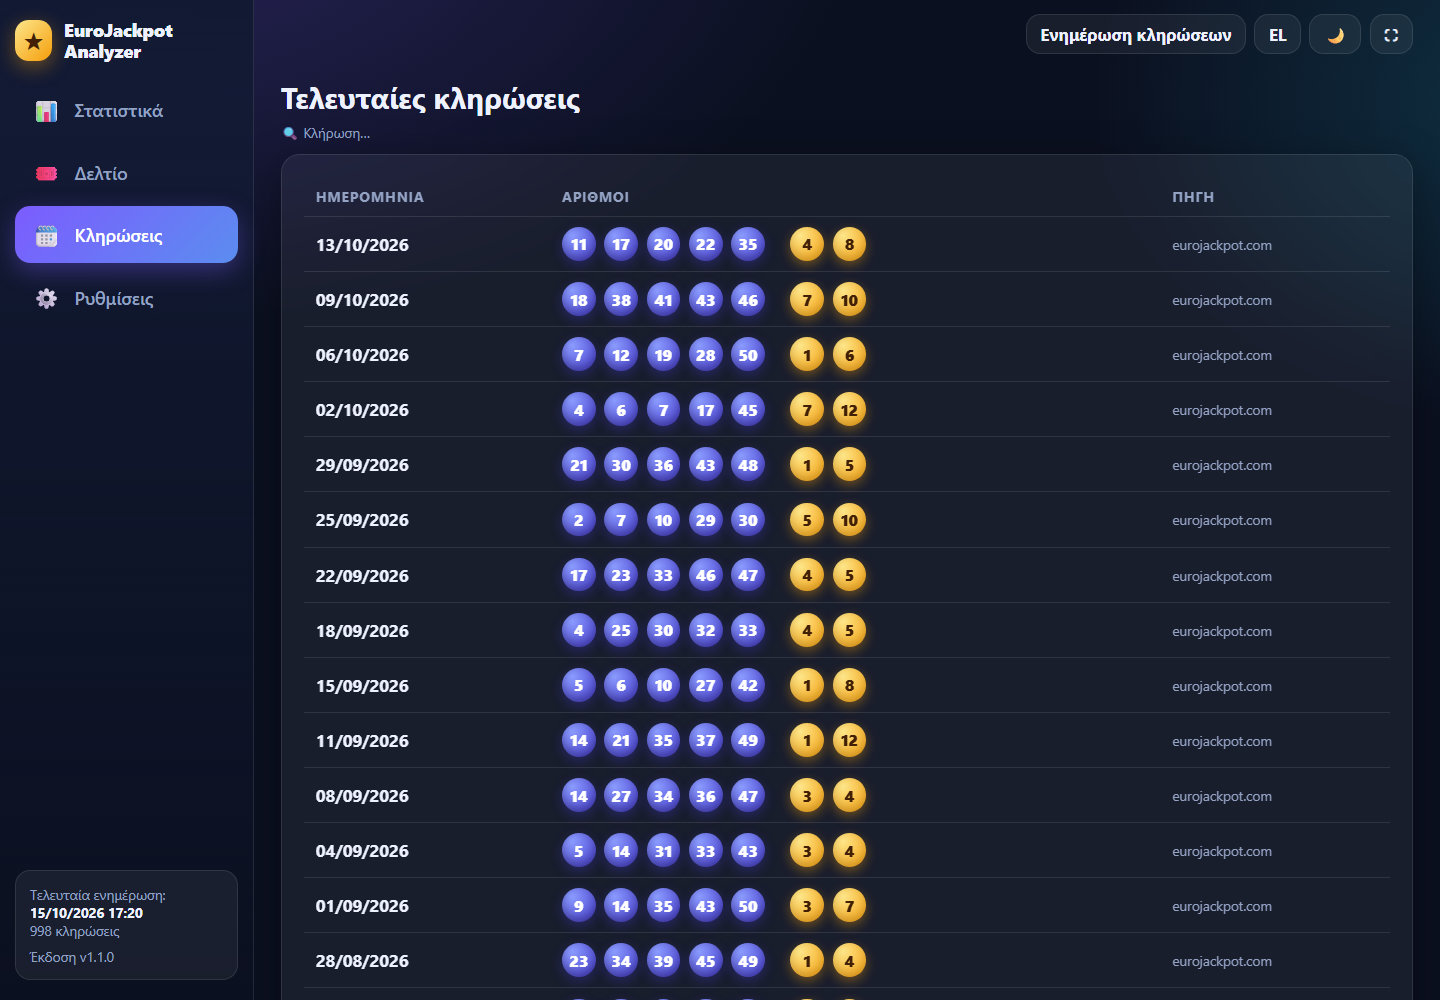
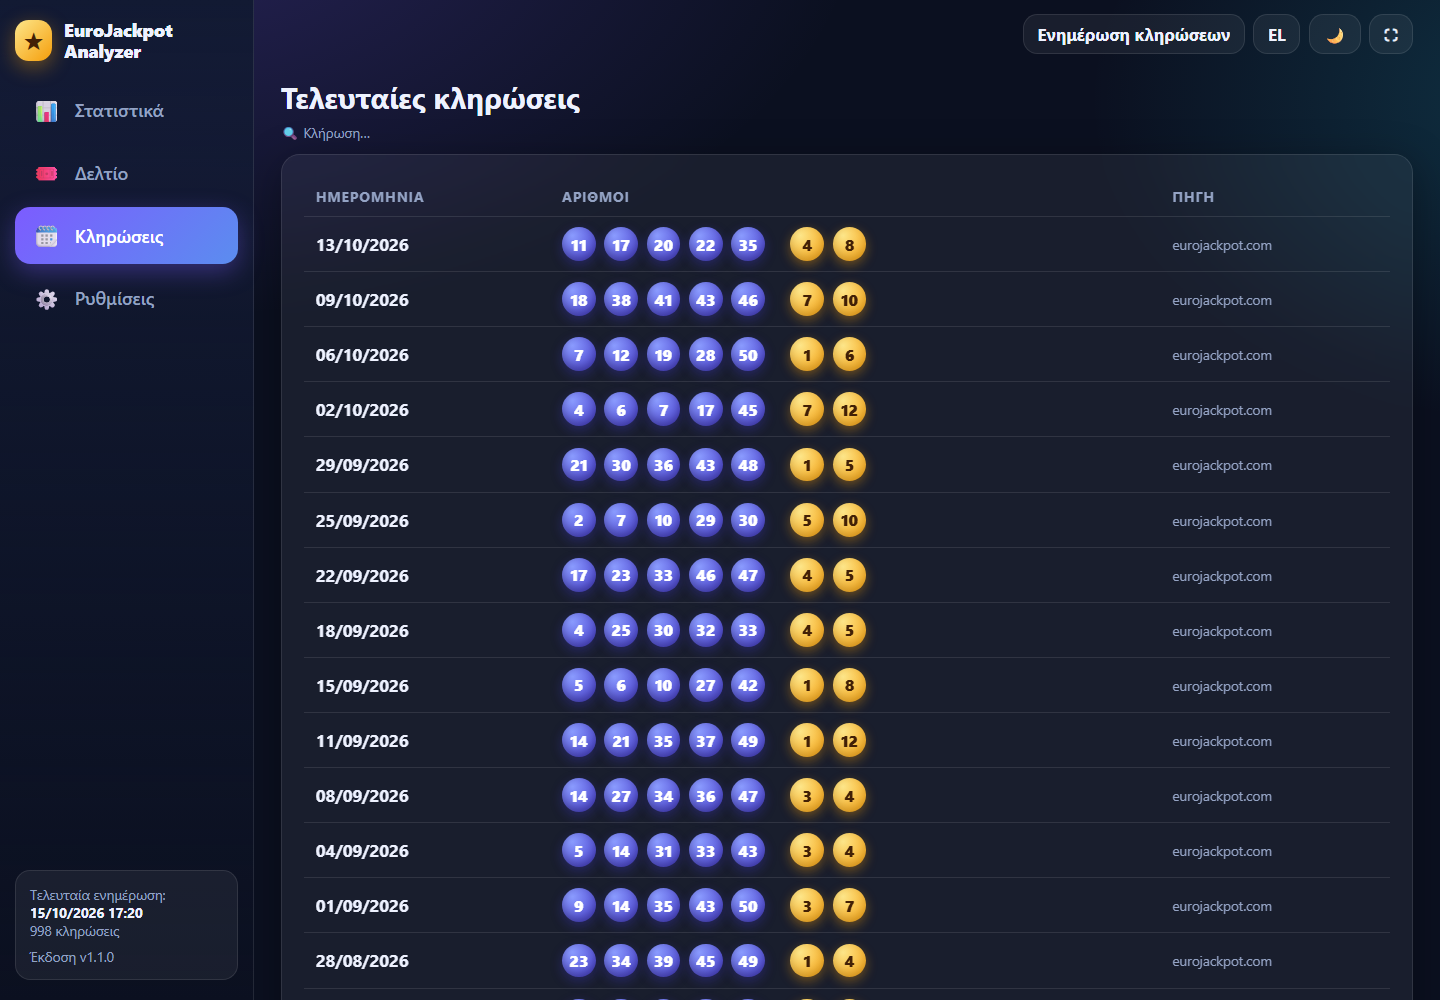
Fix helper launch for in-app update, fix README images (v1.1.1)

diff --git a/app/ui/app.js b/app/ui/app.js
@@ -466,6 +466,7 @@ async function boot() {
   const hp = new URLSearchParams(location.hash.slice(1));      // dev/docs helper: #view=ticket&lang=en&theme=light&draw=2026-10-13&gen=12
   if (hp.get("lang") && hp.get("lang") !== S.settings.lang) { await setSetting("lang", hp.get("lang")); await loadLocale(); await refreshInfo(); }
   if (hp.get("theme") && hp.get("theme") !== S.settings.theme) { await setSetting("theme", hp.get("theme")); applyTheme(); }
+  if (hp.get("static")) document.body.classList.add("no-anim");   // screenshots: no fade-in captured half-way
   if (hp.get("view")) S.view = hp.get("view");
   if (!S.info.count) { await runUpdate({ firstRun: true }); }
   else {

diff --git a/app/ui/styles.css b/app/ui/styles.css
@@ -21,6 +21,7 @@ body {
 }
 button { font: inherit; color: inherit; cursor: pointer; }
 .hidden { display: none !important; }
+.no-anim *, .no-anim *::before, .no-anim *::after { animation: none !important; transition: none !important; }
 .muted { color: var(--muted); } .small { font-size: .8rem; } .strong { font-weight: 700; } .big { font-size: 1.6rem; }
 
 #app { display: grid; grid-template-columns: 15rem 1fr; height: 100vh; }

diff --git a/app/appupdate.py b/app/appupdate.py
@@ -117,10 +117,13 @@ def safe_extract(zip_path: Path, dest: Path) -> Path:
 
 
 APPLY_PS1 = r"""param([int]$ProcId, [string]$Src, [string]$Dst, [string]$Exe)
+Start-Transcript -Path (Join-Path $PSScriptRoot 'apply.log') | Out-Null
 try { Wait-Process -Id $ProcId -Timeout 90 -ErrorAction SilentlyContinue } catch {}
 Start-Sleep -Seconds 1
 robocopy $Src $Dst /E /XD "$Dst\data" /R:10 /W:1 /NFL /NDL /NJH /NJS /NP | Out-Null
+"robocopy exit code: $LASTEXITCODE"
 Start-Process -FilePath $Exe
+Stop-Transcript | Out-Null
 """
 
 
@@ -154,9 +157,11 @@ def install(release: dict, progress=None) -> None:
     ps1 = tmp / "apply.ps1"
     ps1.write_text(APPLY_PS1, encoding="utf-8")
     exe = Path(sys.executable).resolve()
-    flags = getattr(subprocess, "DETACHED_PROCESS", 0) | getattr(subprocess, "CREATE_NO_WINDOW", 0)
-    subprocess.Popen(
-        ["powershell", "-NoProfile", "-ExecutionPolicy", "Bypass", "-WindowStyle", "Hidden", "-File", str(ps1),
-         "-ProcId", str(os.getpid()), "-Src", str(src), "-Dst", str(base_dir()), "-Exe", str(exe)],
-        creationflags=flags, close_fds=True,
-    )
+    cmd = ["powershell", "-NoProfile", "-ExecutionPolicy", "Bypass", "-WindowStyle", "Hidden", "-File", str(ps1),
+           "-ProcId", str(os.getpid()), "-Src", str(src), "-Dst", str(base_dir()), "-Exe", str(exe)]
+    base = getattr(subprocess, "CREATE_NO_WINDOW", 0) | getattr(subprocess, "CREATE_NEW_PROCESS_GROUP", 0)
+    breakaway = 0x01000000          # CREATE_BREAKAWAY_FROM_JOB: survive if our job object is closed with us
+    try:
+        subprocess.Popen(cmd, creationflags=base | breakaway, close_fds=True)
+    except OSError:                 # the job does not allow breakaway
+        subprocess.Popen(cmd, creationflags=base, close_fds=True)

diff --git a/app/version.py b/app/version.py
@@ -1,4 +1,4 @@
-__version__ = "1.1.0"
+__version__ = "1.1.1"
 APP_NAME = "EuroJackpot Analyzer"
 # GitHub "owner/name" used for update checks (GitHub Releases). Empty = update check disabled.
 GITHUB_REPO = "VeZReVouLiS/EuroJackpot-Analyzer"

diff --git a/README.md b/README.md
@@ -27,7 +27,11 @@ Portable πρόγραμμα για Windows που κατεβάζει όλο το
 > Οι Euro αριθμοί άλλαξαν εύρος στο παρελθόν (1–8, από 10/2014 1–10, από 3/2022 1–12). Τα στατιστικά μετρούν μόνο τις κληρώσεις στις οποίες ο αριθμός υπήρχε.
 
 ### 3. Κληρώσεις και λεπτομέρειες
-Στο μενού **Κληρώσεις** βλέπεις τις τελευταίες 100 κληρώσεις. **Κάνε κλικ σε μια κλήρωση** (ή στην τελευταία κλήρωση της αρχικής οθόνης) για να δεις τις επιτυχίες και τα κέρδη ανά κατηγορία:
+Στο μενού **Κληρώσεις** βλέπεις τις τελευταίες 100 κληρώσεις:
+
+![Τελευταίες κληρώσεις](docs/images/06-draws.png)
+
+**Κάνε κλικ σε μια κλήρωση** (ή στην τελευταία κλήρωση της αρχικής οθόνης) για να δεις τις επιτυχίες και τα κέρδη ανά κατηγορία:
 
 ![Λεπτομέρειες κλήρωσης](docs/images/02-draw-details.png)
 
@@ -49,8 +53,12 @@ Portable πρόγραμμα για Windows που κατεβάζει όλο το
 
 > Η κλήρωση είναι τυχαία. Τα στατιστικά είναι ενημερωτικά και δεν αυξάνουν τις πιθανότητες νίκης. Παίξε υπεύθυνα (18+).
 
-### 5. Ρυθμίσεις: δεδομένα, εξαγωγή και εισαγωγή
+### 5. Ρυθμίσεις: γλώσσα, θέμα, δεδομένα, εξαγωγή και εισαγωγή
 ![Ρυθμίσεις](docs/images/04-settings.png)
+
+Η **γλώσσα** (Ελληνικά / English) και το **θέμα** (σκούρο / ανοιχτό) αλλάζουν αμέσως, από τα κουμπιά πάνω δεξιά ή από τις Ρυθμίσεις. Παράδειγμα στα αγγλικά με ανοιχτό θέμα:
+
+![English / light theme](docs/images/05-statistics-en-light.png)
 
 **Ενημέρωση κληρώσεων** και **ενημέρωση εφαρμογής** είναι δύο ξεχωριστά πράγματα:
 
@@ -71,11 +79,6 @@ Portable πρόγραμμα για Windows που κατεβάζει όλο το
 
 ### 7. Λευκό παράθυρο ή δεν ανοίγει;
 Εγκατάστησε το *Microsoft Edge WebView2 Runtime* από τη Microsoft.
-
----
-
-![Τελευταίες κληρώσεις](docs/images/06-draws.png)
-![English / light theme](docs/images/05-statistics-en-light.png)
 
 ---
 

diff --git a/CHANGELOG.md b/CHANGELOG.md
@@ -1,5 +1,9 @@
 # Changelog
 
+## 1.1.1
+- Διόρθωση αυτόματης εγκατάστασης νέας έκδοσης: το βοηθητικό script ξεκινά πλέον ανεξάρτητα από την εφαρμογή και γράφει αρχείο `apply.log`. Δοκιμάστηκε με το πραγματικό zip του release, με τον φάκελο `data` να μένει ανέγγιχτος.
+- Διορθωμένες εικόνες και σειρά εικόνων στις οδηγίες (README).
+
 ## 1.1.0
 - Κλικ σε κλήρωση → επιτυχίες και κέρδη ανά κατηγορία: σύνολο όλων των χωρών, Ελλάδα (από 8/3/2024), λοιπές χώρες, κέρδος ανά επιτυχία, στήλες και τζίρος.
 - Εξαγωγή όλων των κληρώσεων σε JSON (πλήρες) ή CSV και εισαγωγή τους σε άλλο PC, ακόμα και offline.
